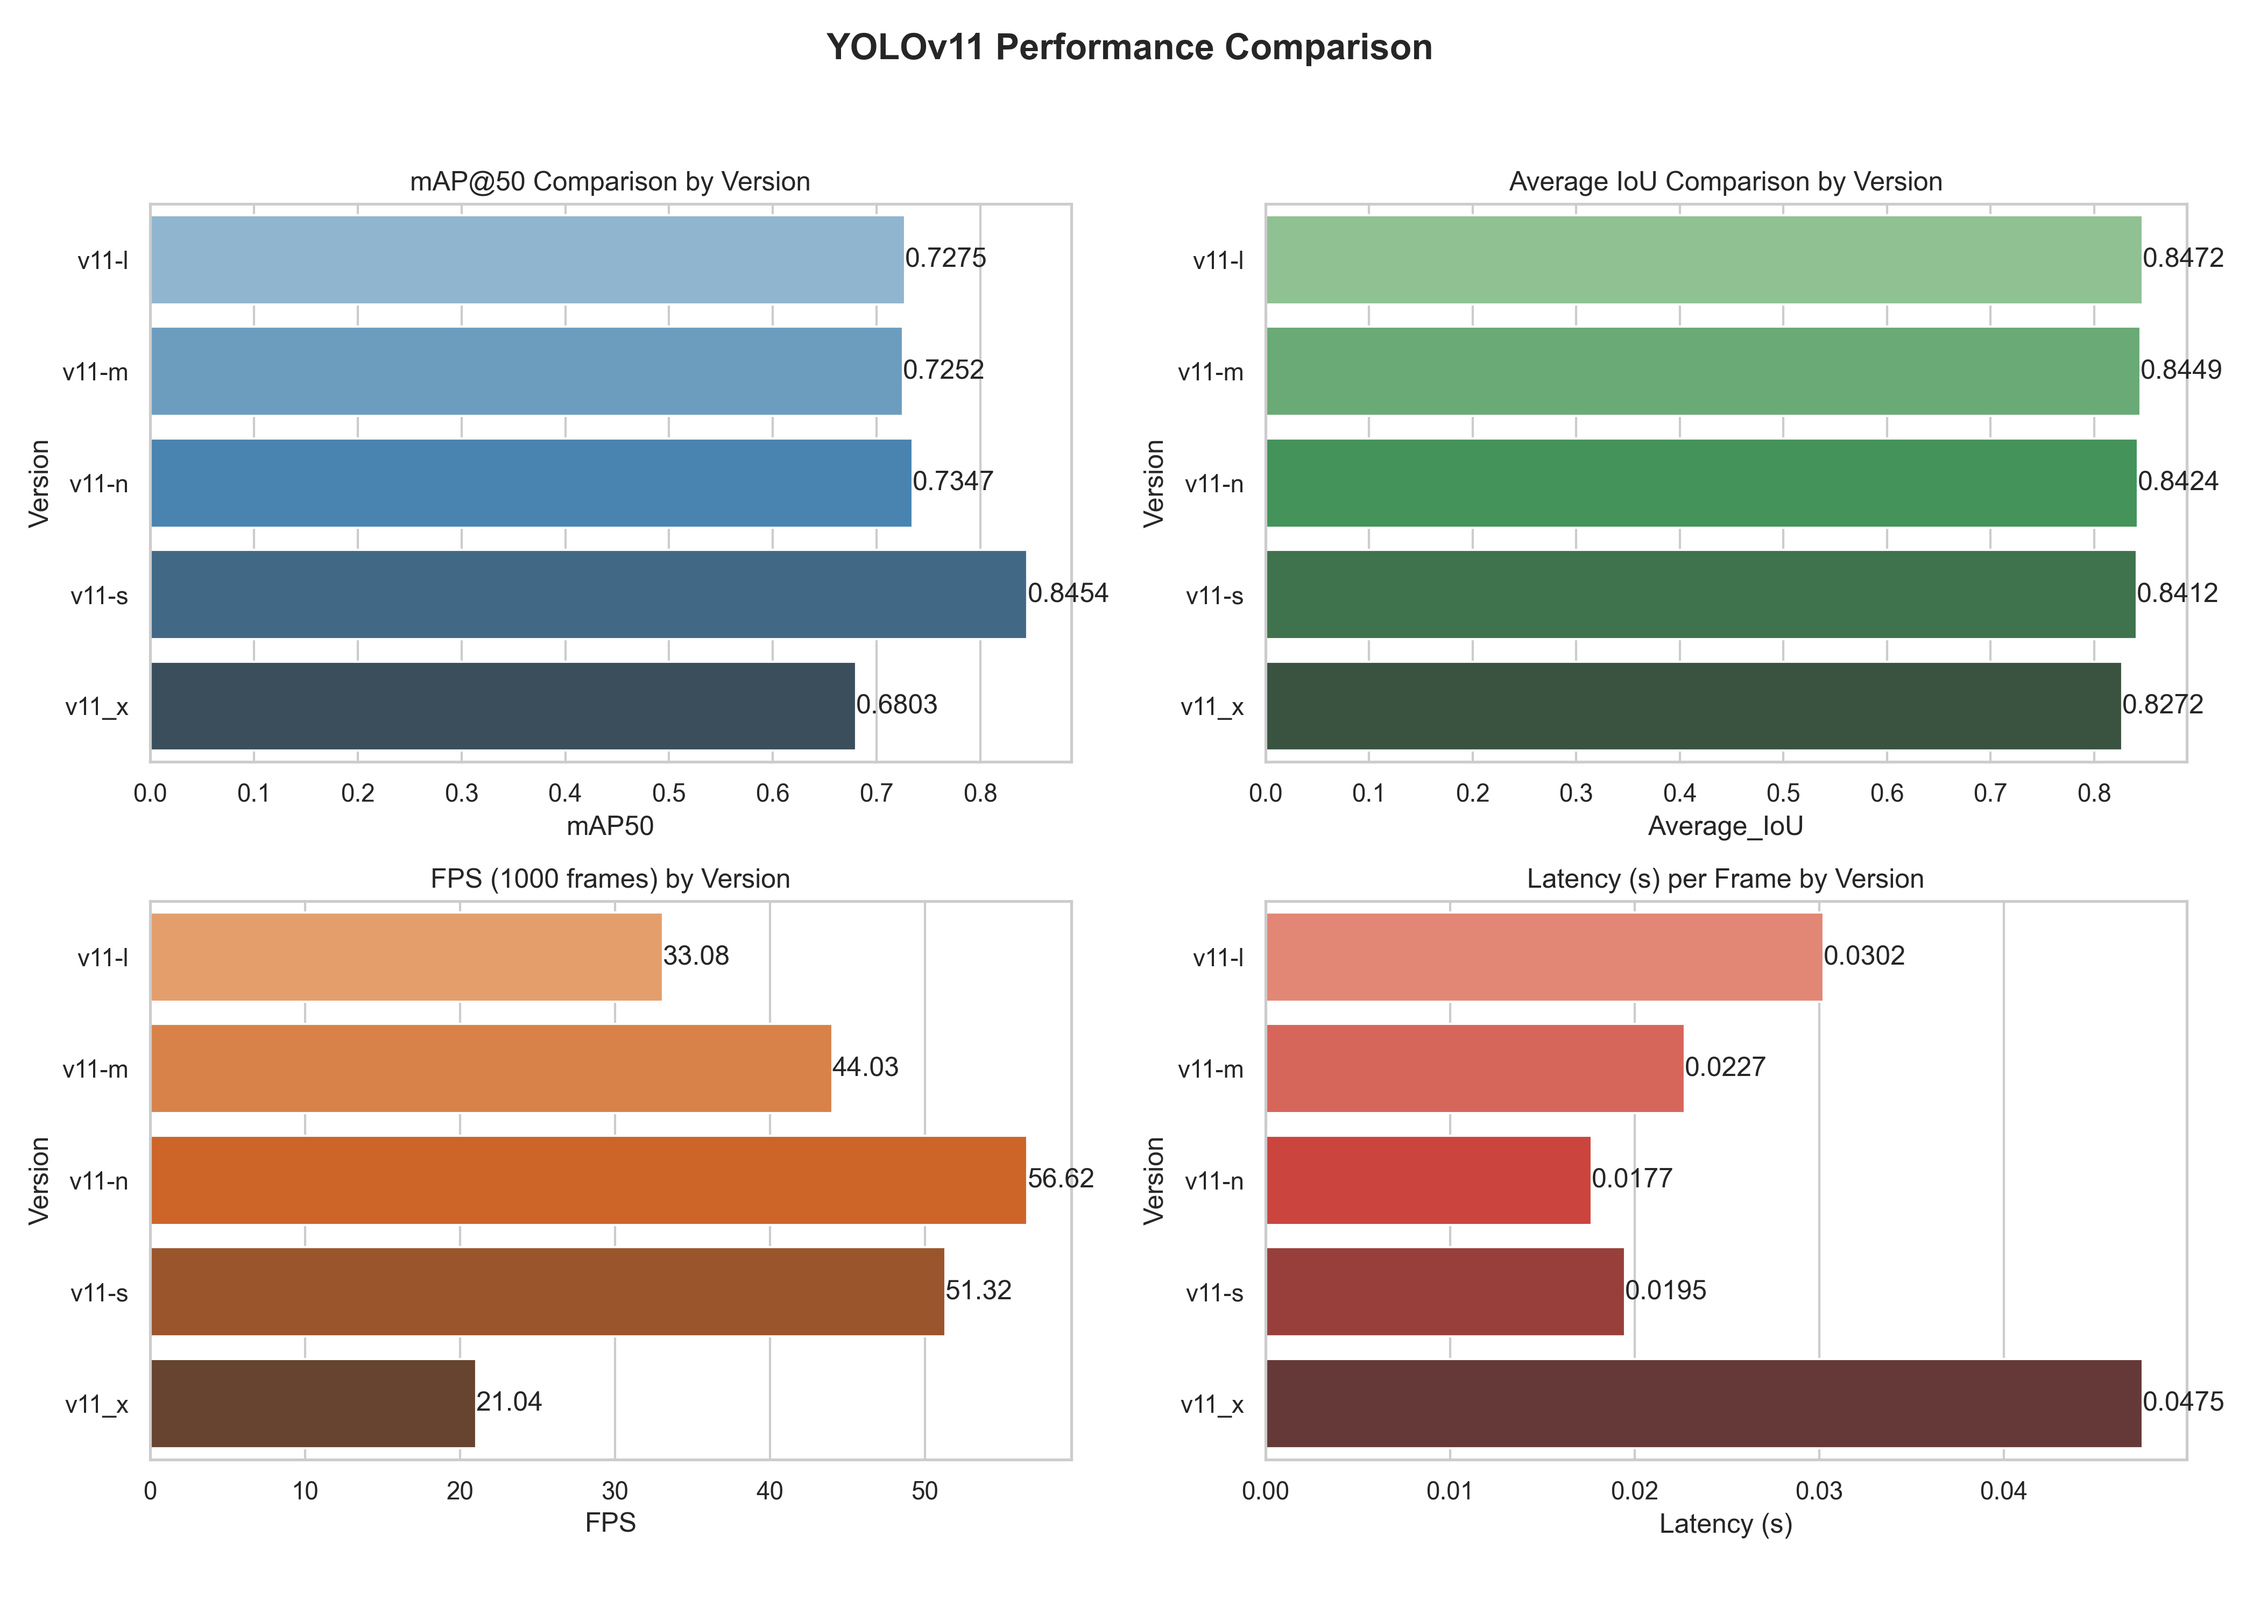
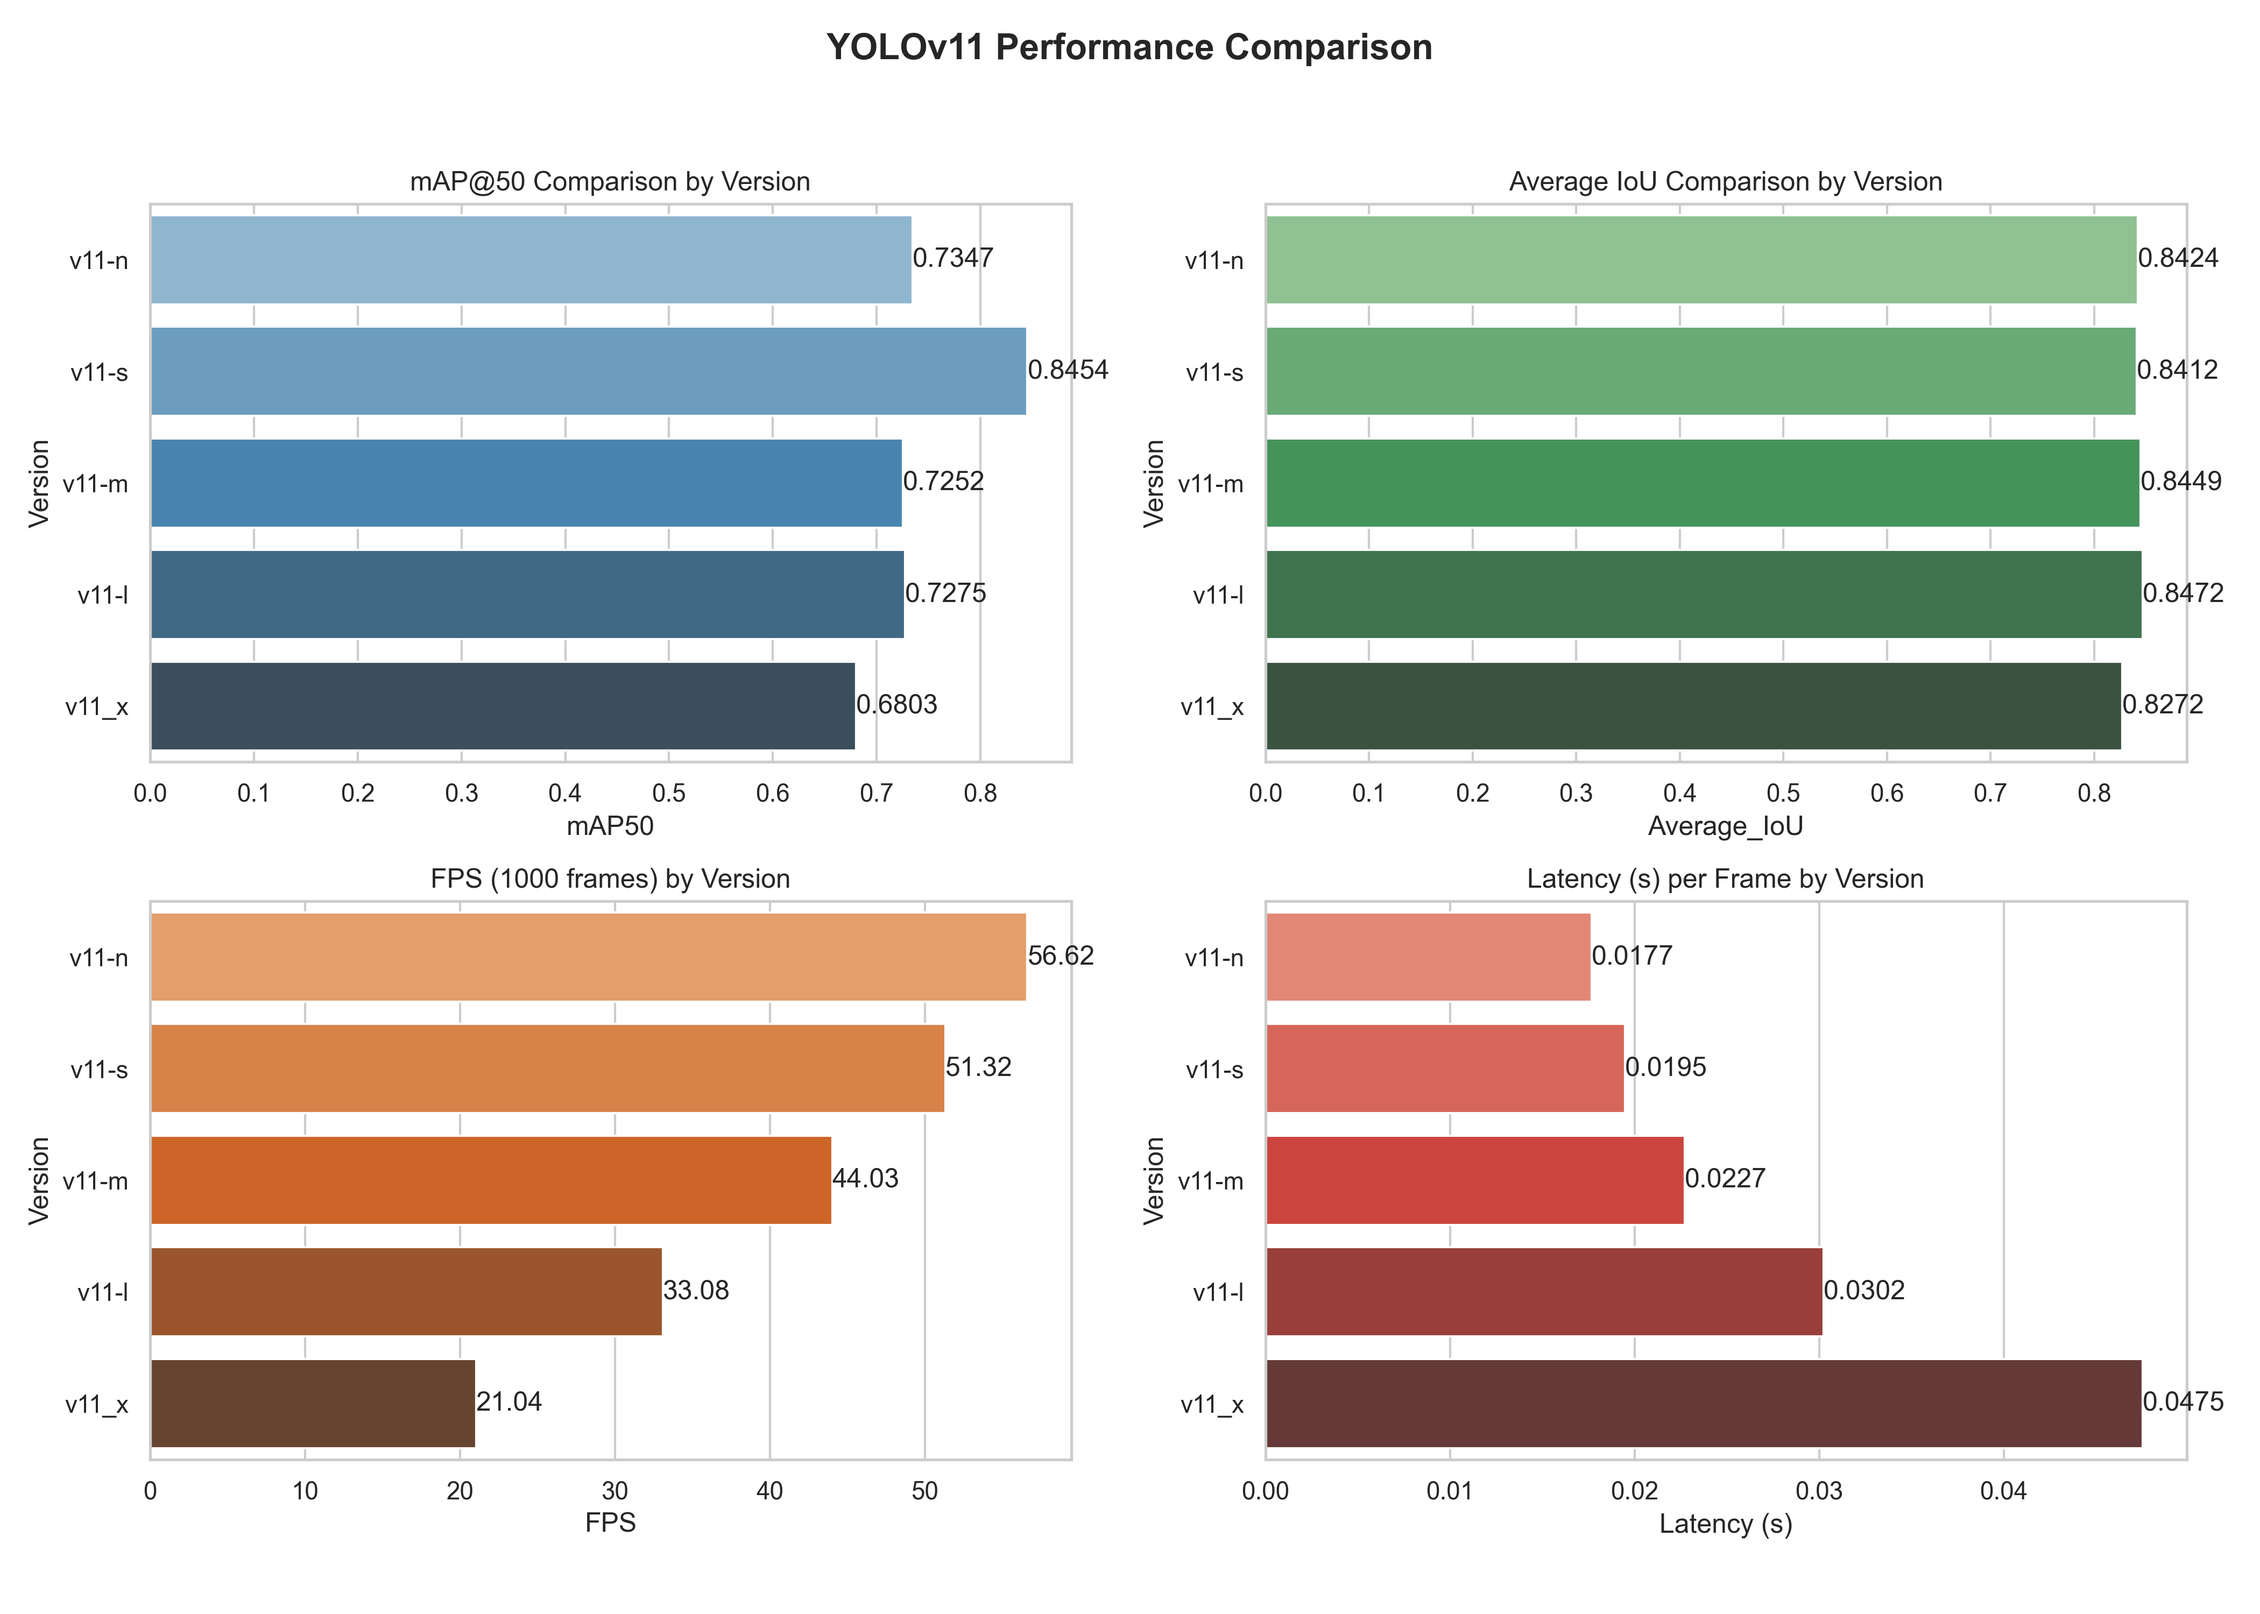
feat: evaluate

diff --git a/evaluate/draw_image.py b/evaluate/draw_image.py
@@ -19,11 +19,8 @@ df_map_best = df_map[df_map["Weight"] == "best.pt"].copy()
 # Gộp dữ liệu theo Version
 df_merged = pd.merge(df_map_best, df_latency, on="Version")
 
-# Sắp xếp theo version cho đẹp
-df_merged = df_merged.sort_values(by="Version", ascending=True)
-
 # Setup style
-sns.set(style='whitegrid')
+sns.set_theme(style='whitegrid')
 plt.figure(figsize=(14, 10))
 
 # Biểu đồ mAP50

diff --git a/evaluate/fps_latency.py b/evaluate/fps_latency.py
@@ -92,7 +92,7 @@ def main():
         fps, latency = process_video_yolo(model, VIDEO_PATH)
         if fps is not None:
             results.append({
-                'Model': subdir,
+                'Version': subdir,
                 'FPS': fps,
                 'Latency (s)': latency
             })
